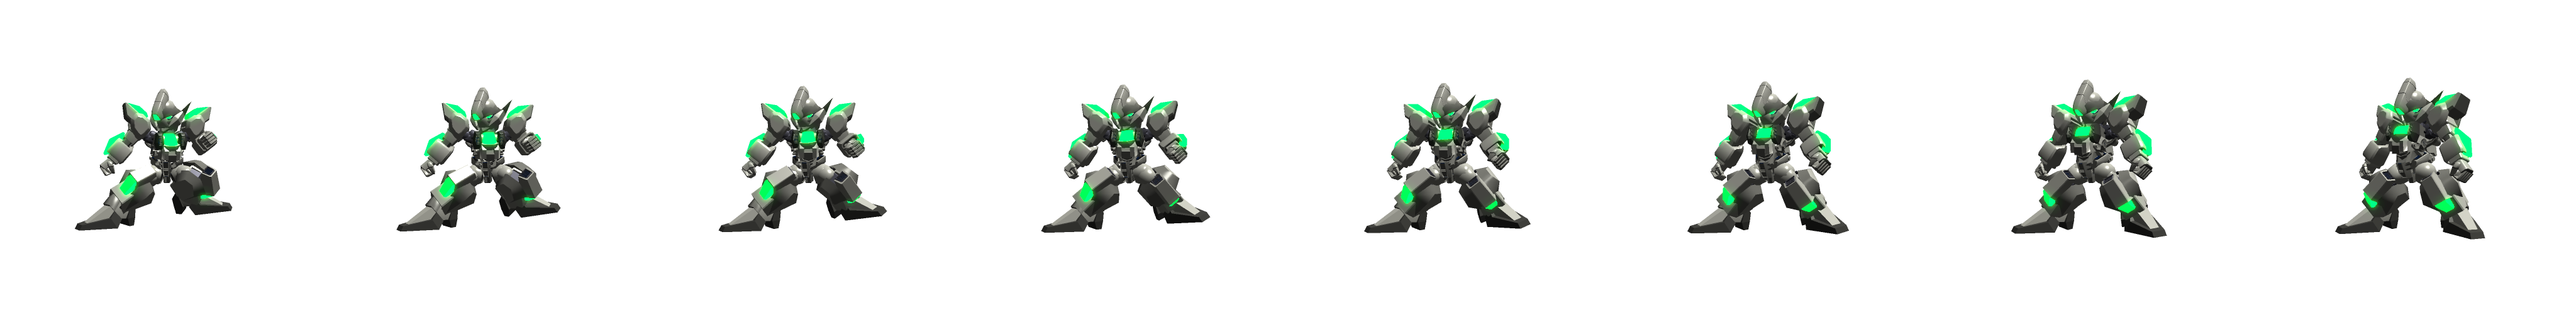
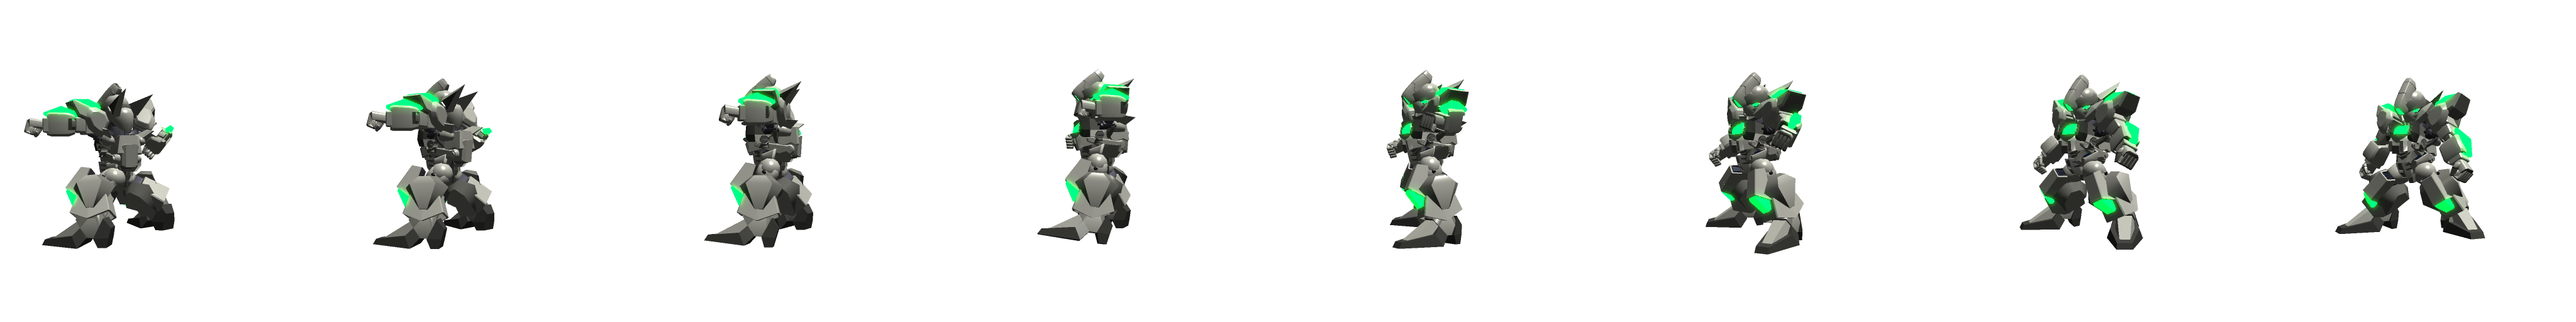
シンブレイバーのパンチモーションが大げさすぎたので、慎ましやかにした

diff --git a/src/game-object/armdozer/shin-breaver/animation/straight-punch.js b/src/game-object/armdozer/shin-breaver/animation/straight-punch.js
@@ -13,10 +13,10 @@ export function straightPunch(model: ShinBraverModel): Animate {
     model.animation.frame = 0;
   }).chain(
     tween(model.animation, t => t
-      .to({frame: 1}, 500)
+      .to({frame: 1}, 250)
     )
   ).chain(
-    delay(300)
+    delay(200)
   ).chain(
     process(() => {
       model.animation.type = 'SP_ATTACK';
@@ -24,7 +24,7 @@ export function straightPunch(model: ShinBraverModel): Animate {
     })
   ).chain(
     tween(model.animation, t => t
-      .to({frame: 1}, 500)
+      .to({frame: 1}, 250)
     )
-  );
+  )
 }

diff --git a/src/scene/battle/animation/state-history/battle/shin-braver.js b/src/scene/battle/animation/state-history/battle/shin-braver.js
@@ -11,7 +11,7 @@ import {damageIndicatorAnimation} from "./damage-indicator";
 export function shinBraverAttack(attacker: ShinBraver, objects: BattleObjects): Animate {
   return all(
     attacker.straightPunch(),
-    delay(1000)
+    delay(600)
       .chain(
         damageIndicatorAnimation(objects.defender.damageIndicator, objects.effect.result),
         objects.defender.sprite.knockBack(),

diff --git a/src/game-object/armdozer/shin-breaver/mesh/sp-attack.js b/src/game-object/armdozer/shin-breaver/mesh/sp-attack.js
@@ -7,7 +7,7 @@ import {TEXTURE_IDS} from "../../../../resource/texture";
 
 export const MESH_WIDTH = 512;
 export const MESH_HEIGHT = 512;
-export const MAX_ANIMATION = 16;
+export const MAX_ANIMATION = 8;
 
 /** ストレートパンチ攻撃 */
 export function shinBraverSPAttack(resources: Resources): ArmdozerMesh {
